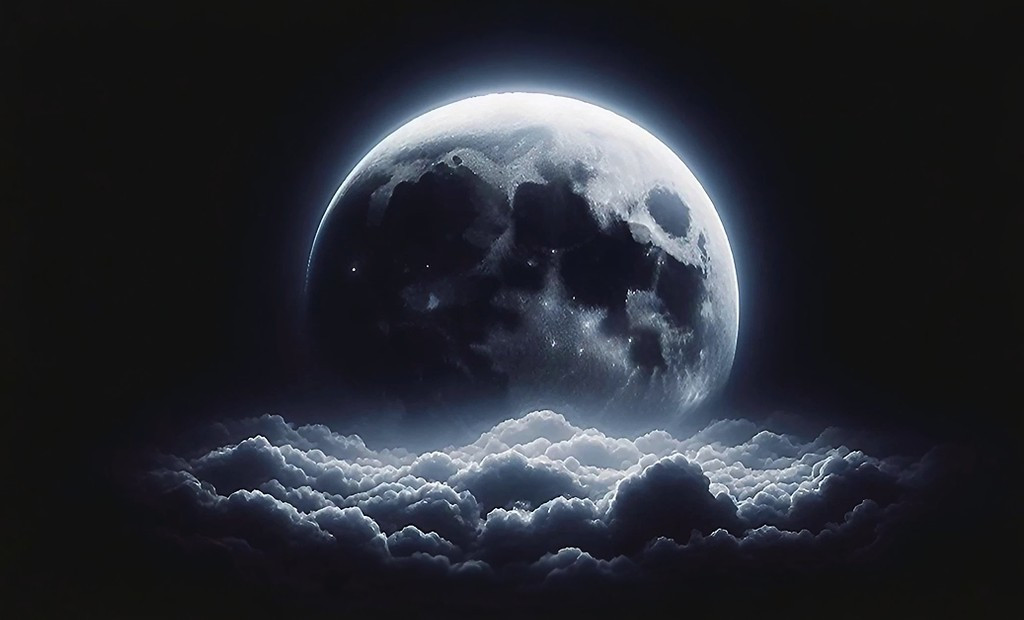
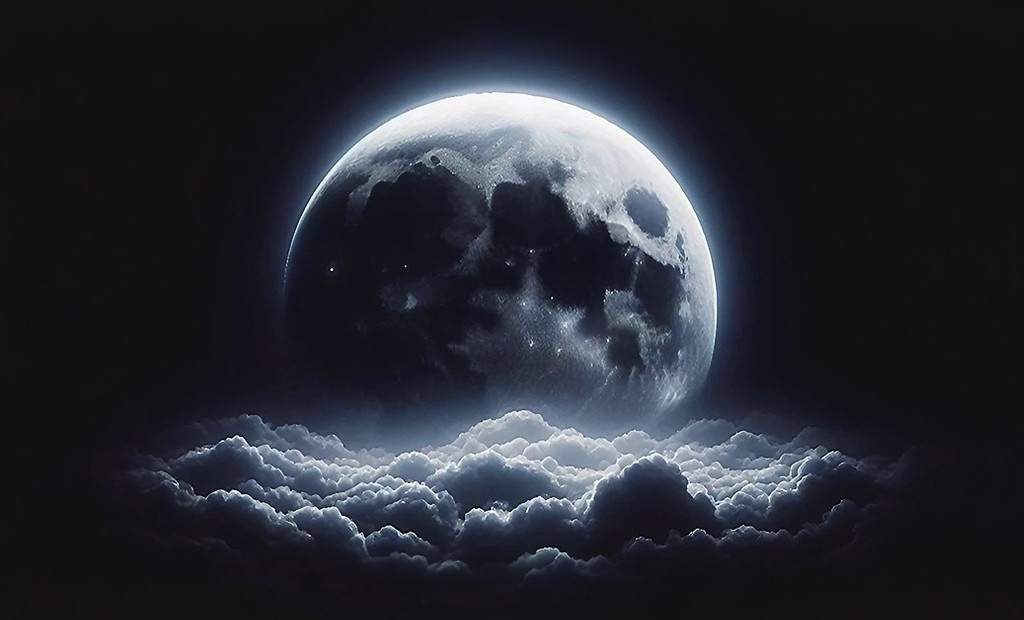
center things

Changed region(s): [[0.125, 0.1226, 0.875, 0.9194], [0.375, 0.4597, 0.4375, 0.521]]

diff --git a/layouts/sl/sectionroot.html b/layouts/sl/sectionroot.html
@@ -7,10 +7,10 @@
         <div class="content">
           <h1>Starlight CTF</h1>
           {{ $markdown := readFile "content/sl/Introduction/README.md" }}
-          {{ $heartHTML := "<span style='color:rgb(228, 33, 33)'><svg height='20' class='group-data-[theme=light]:hidden' xmlns='http://www.w3.org/2000/svg' fill='none' viewBox='0 0 24 24' stroke-width='2' stroke='currentColor' aria-hidden='true'><path stroke-linecap='round' stroke-linejoin='round' d='M4.318 6.318a4.5 4.5 0 000 6.364L12 20.364l7.682-7.682a4.5 4.5 0 00-6.364-6.364L12 7.636l-1.318-1.318a4.5 4.5 0 00-6.364 0z'></path></svg></span>" }}
-          {{ $passedHTML := "<span style='color:rgb(34, 230, 50)'><svg height='20' class='group-data-[theme=light]:hidden' xmlns='http://www.w3.org/2000/svg' fill='none' viewBox='0 0 24 24' stroke-width='2' stroke='currentColor' aria-hidden='true'><path stroke-linecap='round' stroke-linejoin='round' d='M9 12l2 2 4-4m6 2a9 9 0 11-18 0 9 9 0 0118 0z'></path></svg></span>" }}
-          {{ $failedHTML := "<span style='color:rgb(228, 33, 33)'><svg height='20' class='group-data-[theme=light]:hidden' xmlns='http://www.w3.org/2000/svg' fill='none' viewBox='0 0 24 24' stroke-width='2' stroke='currentColor' aria-hidden='true'><path stroke-linecap='round' stroke-linejoin='round' d='M10 14l2-2m0 0l2-2m-2 2l-2-2m2 2l2 2m7-2a9 9 0 11-18 0 9 9 0 0118 0z'></path></svg></span>" }}
-          {{ $warnHTML := "<span style='color:rgb(255, 153, 19)'><svg height='20' class='group-data-[theme=light]:hidden' xmlns='http://www.w3.org/2000/svg' fill='none' viewBox='0 0 24 24' stroke-width='2' stroke='currentColor' aria-hidden='true'><path stroke-linecap='round' stroke-linejoin='round' d='M12 8v4m0 4h.01M21 12a9 9 0 11-18 0 9 9 0 0118 0z'></path></svg></span>" }}
+          {{ $heartHTML := "<span class='mr-1' style='color:rgb(228, 33, 33)'><svg height='20' class='group-data-[theme=light]:hidden' xmlns='http://www.w3.org/2000/svg' fill='none' viewBox='0 0 24 24' stroke-width='2' stroke='currentColor' aria-hidden='true'><path stroke-linecap='round' stroke-linejoin='round' d='M4.318 6.318a4.5 4.5 0 000 6.364L12 20.364l7.682-7.682a4.5 4.5 0 00-6.364-6.364L12 7.636l-1.318-1.318a4.5 4.5 0 00-6.364 0z'></path></svg></span>" }}
+          {{ $passedHTML := "<span class='mr-1' style='color:rgb(34, 230, 50)'><svg height='20' class='group-data-[theme=light]:hidden' xmlns='http://www.w3.org/2000/svg' fill='none' viewBox='0 0 24 24' stroke-width='2' stroke='currentColor' aria-hidden='true'><path stroke-linecap='round' stroke-linejoin='round' d='M9 12l2 2 4-4m6 2a9 9 0 11-18 0 9 9 0 0118 0z'></path></svg></span>" }}
+          {{ $failedHTML := "<span class='mr-1' style='color:rgb(228, 33, 33)'><svg height='20' class='group-data-[theme=light]:hidden' xmlns='http://www.w3.org/2000/svg' fill='none' viewBox='0 0 24 24' stroke-width='2' stroke='currentColor' aria-hidden='true'><path stroke-linecap='round' stroke-linejoin='round' d='M10 14l2-2m0 0l2-2m-2 2l-2-2m2 2l2 2m7-2a9 9 0 11-18 0 9 9 0 0118 0z'></path></svg></span>" }}
+          {{ $warnHTML := "<span class='mr-1' style='color:rgb(255, 153, 19)'><svg height='20' class='group-data-[theme=light]:hidden' xmlns='http://www.w3.org/2000/svg' fill='none' viewBox='0 0 24 24' stroke-width='2' stroke='currentColor' aria-hidden='true'><path stroke-linecap='round' stroke-linejoin='round' d='M12 8v4m0 4h.01M21 12a9 9 0 11-18 0 9 9 0 0118 0z'></path></svg></span>" }}
           {{ $markdown | markdownify | replaceRE ":heart:" $heartHTML | replaceRE ":passed:" $passedHTML | replaceRE ":failed:" $failedHTML | replaceRE ":warn:" $warnHTML | replaceRE ":partial:" $warnHTML | safeHTML }}
           <br>
           {{ $markdown := "The source code for these notes is available on [this GitHub repository](https://github.com/s1lver-lining/Starlight)." }}

diff --git a/layouts/_default/list.html b/layouts/_default/list.html
@@ -7,10 +7,10 @@
         {{ partial "breadcrumb.html" . }}
         <div class="content">
           <h1>{{ .Title }}</h1>
-          {{ $heartHTML := "<span style='color:rgb(228, 33, 33)'><svg height='20' class='group-data-[theme=light]:hidden' xmlns='http://www.w3.org/2000/svg' fill='none' viewBox='0 0 24 24' stroke-width='2' stroke='currentColor' aria-hidden='true'><path stroke-linecap='round' stroke-linejoin='round' d='M4.318 6.318a4.5 4.5 0 000 6.364L12 20.364l7.682-7.682a4.5 4.5 0 00-6.364-6.364L12 7.636l-1.318-1.318a4.5 4.5 0 00-6.364 0z'></path></svg></span>" }}
-          {{ $passedHTML := "<span style='color:rgb(34, 230, 50)'><svg height='20' class='group-data-[theme=light]:hidden' xmlns='http://www.w3.org/2000/svg' fill='none' viewBox='0 0 24 24' stroke-width='2' stroke='currentColor' aria-hidden='true'><path stroke-linecap='round' stroke-linejoin='round' d='M9 12l2 2 4-4m6 2a9 9 0 11-18 0 9 9 0 0118 0z'></path></svg></span>" }}
-          {{ $failedHTML := "<span style='color:rgb(228, 33, 33)'><svg height='20' class='group-data-[theme=light]:hidden' xmlns='http://www.w3.org/2000/svg' fill='none' viewBox='0 0 24 24' stroke-width='2' stroke='currentColor' aria-hidden='true'><path stroke-linecap='round' stroke-linejoin='round' d='M10 14l2-2m0 0l2-2m-2 2l-2-2m2 2l2 2m7-2a9 9 0 11-18 0 9 9 0 0118 0z'></path></svg></span>" }}
-          {{ $warnHTML := "<span style='color:rgb(255, 153, 19)'><svg height='20' class='group-data-[theme=light]:hidden' xmlns='http://www.w3.org/2000/svg' fill='none' viewBox='0 0 24 24' stroke-width='2' stroke='currentColor' aria-hidden='true'><path stroke-linecap='round' stroke-linejoin='round' d='M12 8v4m0 4h.01M21 12a9 9 0 11-18 0 9 9 0 0118 0z'></path></svg></span>" }}
+          {{ $heartHTML := "<span class='mr-1' style='color:rgb(228, 33, 33)'><svg height='20' class='group-data-[theme=light]:hidden' xmlns='http://www.w3.org/2000/svg' fill='none' viewBox='0 0 24 24' stroke-width='2' stroke='currentColor' aria-hidden='true'><path stroke-linecap='round' stroke-linejoin='round' d='M4.318 6.318a4.5 4.5 0 000 6.364L12 20.364l7.682-7.682a4.5 4.5 0 00-6.364-6.364L12 7.636l-1.318-1.318a4.5 4.5 0 00-6.364 0z'></path></svg></span>" }}
+          {{ $passedHTML := "<span class='mr-1' style='color:rgb(34, 230, 50)'><svg height='20' class='group-data-[theme=light]:hidden' xmlns='http://www.w3.org/2000/svg' fill='none' viewBox='0 0 24 24' stroke-width='2' stroke='currentColor' aria-hidden='true'><path stroke-linecap='round' stroke-linejoin='round' d='M9 12l2 2 4-4m6 2a9 9 0 11-18 0 9 9 0 0118 0z'></path></svg></span>" }}
+          {{ $failedHTML := "<span class='mr-1' style='color:rgb(228, 33, 33)'><svg height='20' class='group-data-[theme=light]:hidden' xmlns='http://www.w3.org/2000/svg' fill='none' viewBox='0 0 24 24' stroke-width='2' stroke='currentColor' aria-hidden='true'><path stroke-linecap='round' stroke-linejoin='round' d='M10 14l2-2m0 0l2-2m-2 2l-2-2m2 2l2 2m7-2a9 9 0 11-18 0 9 9 0 0118 0z'></path></svg></span>" }}
+          {{ $warnHTML := "<span class='mr-1' style='color:rgb(255, 153, 19)'><svg height='20' class='group-data-[theme=light]:hidden' xmlns='http://www.w3.org/2000/svg' fill='none' viewBox='0 0 24 24' stroke-width='2' stroke='currentColor' aria-hidden='true'><path stroke-linecap='round' stroke-linejoin='round' d='M12 8v4m0 4h.01M21 12a9 9 0 11-18 0 9 9 0 0118 0z'></path></svg></span>" }}
           {{ .Content | replaceRE ":heart:" $heartHTML | replaceRE ":passed:" $passedHTML | replaceRE ":failed:" $failedHTML | replaceRE ":warn:" $warnHTML | replaceRE ":partial:" $warnHTML | safeHTML }}
 
           <div class="border-t pt-8 dark:border-neutral-800 contrast-more:border-neutral-400 dark:contrast-more:border-neutral-400 mt-12">

diff --git a/layouts/_default/single.html b/layouts/_default/single.html
@@ -7,10 +7,10 @@
         {{ partial "breadcrumb.html" . }}
         <div class="content">
           <h1>{{ .Title }}</h1>
-          {{ $heartHTML := "<span style='color:rgb(228, 33, 33)'><svg height='20' class='group-data-[theme=light]:hidden' xmlns='http://www.w3.org/2000/svg' fill='none' viewBox='0 0 24 24' stroke-width='2' stroke='currentColor' aria-hidden='true'><path stroke-linecap='round' stroke-linejoin='round' d='M4.318 6.318a4.5 4.5 0 000 6.364L12 20.364l7.682-7.682a4.5 4.5 0 00-6.364-6.364L12 7.636l-1.318-1.318a4.5 4.5 0 00-6.364 0z'></path></svg></span>" }}
-          {{ $passedHTML := "<span style='color:rgb(34, 230, 50)'><svg height='20' class='group-data-[theme=light]:hidden' xmlns='http://www.w3.org/2000/svg' fill='none' viewBox='0 0 24 24' stroke-width='2' stroke='currentColor' aria-hidden='true'><path stroke-linecap='round' stroke-linejoin='round' d='M9 12l2 2 4-4m6 2a9 9 0 11-18 0 9 9 0 0118 0z'></path></svg></span>" }}
-          {{ $failedHTML := "<span style='color:rgb(228, 33, 33)'><svg height='20' class='group-data-[theme=light]:hidden' xmlns='http://www.w3.org/2000/svg' fill='none' viewBox='0 0 24 24' stroke-width='2' stroke='currentColor' aria-hidden='true'><path stroke-linecap='round' stroke-linejoin='round' d='M10 14l2-2m0 0l2-2m-2 2l-2-2m2 2l2 2m7-2a9 9 0 11-18 0 9 9 0 0118 0z'></path></svg></span>" }}
-          {{ $warnHTML := "<span style='color:rgb(255, 153, 19)'><svg height='20' class='group-data-[theme=light]:hidden' xmlns='http://www.w3.org/2000/svg' fill='none' viewBox='0 0 24 24' stroke-width='2' stroke='currentColor' aria-hidden='true'><path stroke-linecap='round' stroke-linejoin='round' d='M12 8v4m0 4h.01M21 12a9 9 0 11-18 0 9 9 0 0118 0z'></path></svg></span>" }}
+          {{ $heartHTML := "<span class='mr-1' style='color:rgb(228, 33, 33)'><svg height='20' class='group-data-[theme=light]:hidden' xmlns='http://www.w3.org/2000/svg' fill='none' viewBox='0 0 24 24' stroke-width='2' stroke='currentColor' aria-hidden='true'><path stroke-linecap='round' stroke-linejoin='round' d='M4.318 6.318a4.5 4.5 0 000 6.364L12 20.364l7.682-7.682a4.5 4.5 0 00-6.364-6.364L12 7.636l-1.318-1.318a4.5 4.5 0 00-6.364 0z'></path></svg></span>" }}
+          {{ $passedHTML := "<span class='mr-1' style='color:rgb(34, 230, 50)'><svg height='20' class='group-data-[theme=light]:hidden' xmlns='http://www.w3.org/2000/svg' fill='none' viewBox='0 0 24 24' stroke-width='2' stroke='currentColor' aria-hidden='true'><path stroke-linecap='round' stroke-linejoin='round' d='M9 12l2 2 4-4m6 2a9 9 0 11-18 0 9 9 0 0118 0z'></path></svg></span>" }}
+          {{ $failedHTML := "<span class='mr-1' style='color:rgb(228, 33, 33)'><svg height='20' class='group-data-[theme=light]:hidden' xmlns='http://www.w3.org/2000/svg' fill='none' viewBox='0 0 24 24' stroke-width='2' stroke='currentColor' aria-hidden='true'><path stroke-linecap='round' stroke-linejoin='round' d='M10 14l2-2m0 0l2-2m-2 2l-2-2m2 2l2 2m7-2a9 9 0 11-18 0 9 9 0 0118 0z'></path></svg></span>" }}
+          {{ $warnHTML := "<span class='mr-1' style='color:rgb(255, 153, 19)'><svg height='20' class='group-data-[theme=light]:hidden' xmlns='http://www.w3.org/2000/svg' fill='none' viewBox='0 0 24 24' stroke-width='2' stroke='currentColor' aria-hidden='true'><path stroke-linecap='round' stroke-linejoin='round' d='M12 8v4m0 4h.01M21 12a9 9 0 11-18 0 9 9 0 0118 0z'></path></svg></span>" }}
           {{ .Content | replaceRE ":heart:" $heartHTML | replaceRE ":passed:" $passedHTML | replaceRE ":failed:" $failedHTML | replaceRE ":warn:" $warnHTML | replaceRE ":partial:" $warnHTML | safeHTML }}
         </div>
         {{ partial "components/last-updated.html" . }}

diff --git a/layouts/shortcodes/headimage.html b/layouts/shortcodes/headimage.html
@@ -1,5 +1,5 @@
 {{- /* Shortcode that includes an image with full width */ -}}
 {{ $src := .Get "src" }}
-<div style="width: 100%; text-align: center;">
-    <img src="{{ $src | absURL }}" style="width: 80%;" alt="{{ $src }}" class="not-prose">
+<div class="flex justify-center items-center">
+    <img src="{{ $src | absURL }}" alt="{{ $src }}" class="not-prose">
 </div>

diff --git a/TODO.md b/TODO.md
@@ -3,6 +3,9 @@ about page
 
 # Content adaptation
 handle callouts/ (definition-theorem-proof)
+handle and display ipynb and pdf files
+link to the corresponding github page for content
+link to the corresponding github page for code
 
 ## Display
 hero in starlight
@@ -11,9 +14,6 @@ hero in WUs ?
 ## Feature
 Download button when displaying code files
 Icons for section if svg present
-
-## Fix content adaptation
-update links to other pages
 
 ## Fix the theme
 sidebar: do not show down arrow if children are excluded
